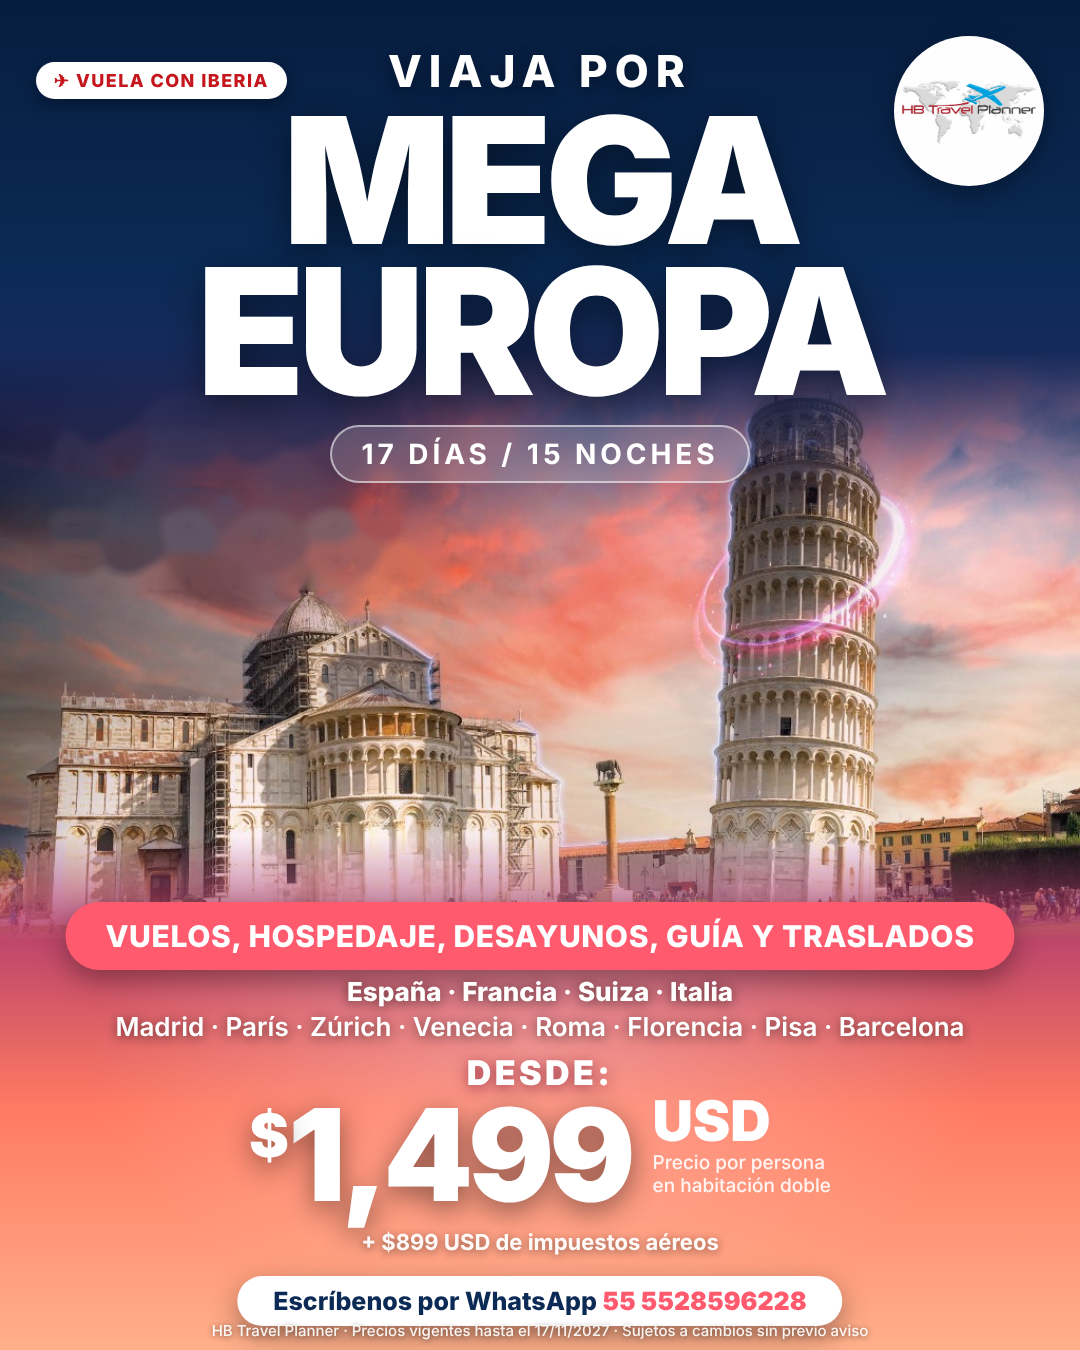
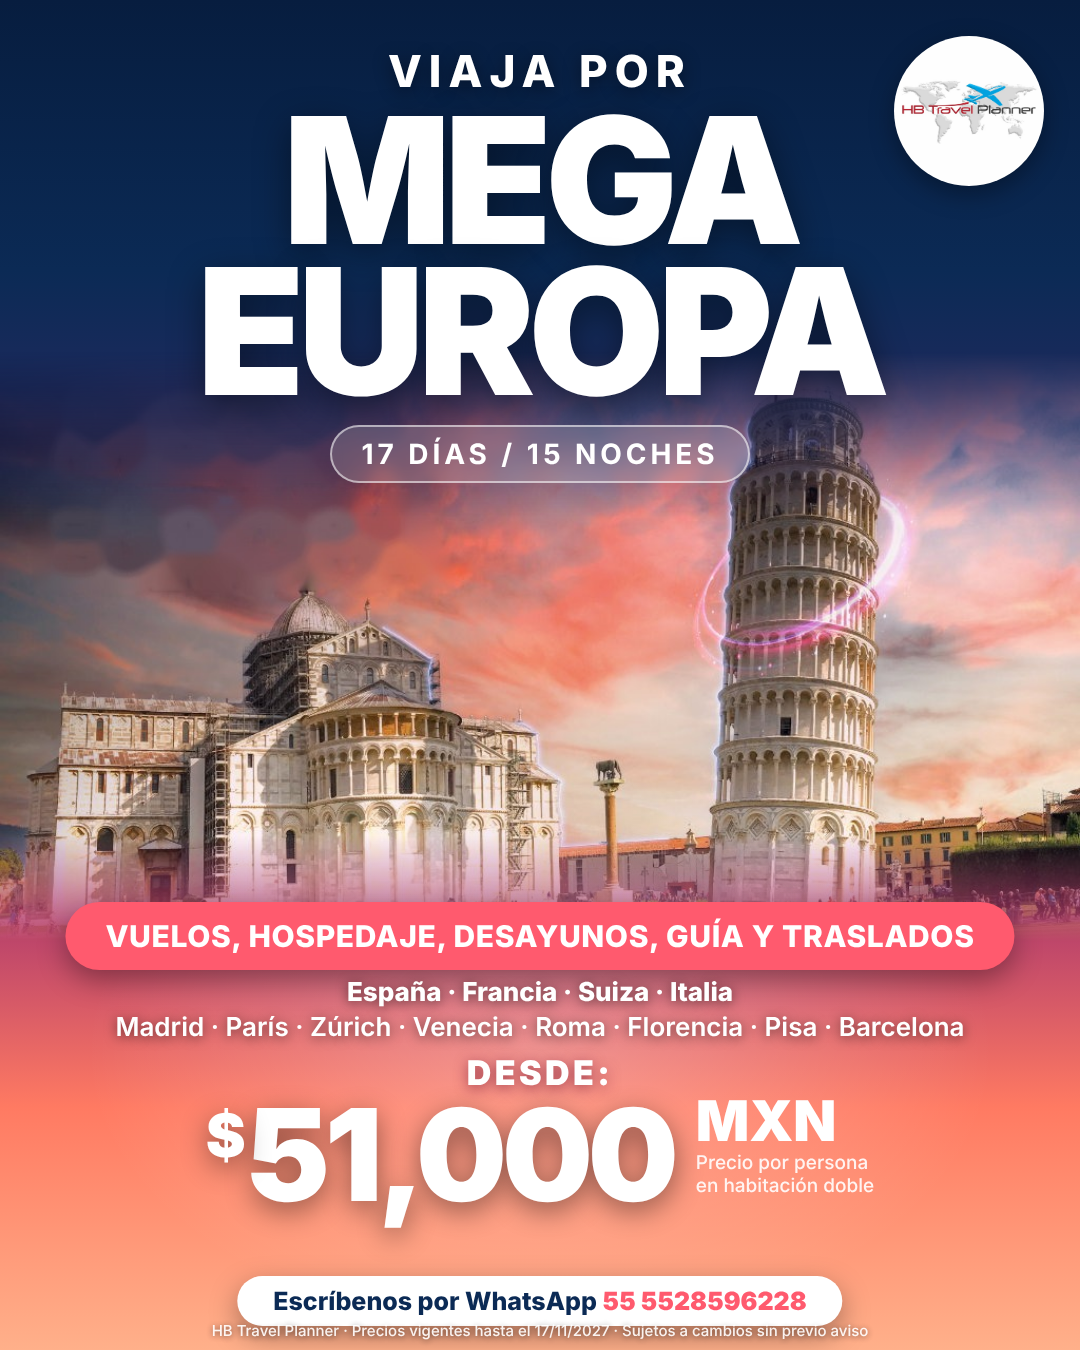
Mega Europa flyer: remove Iberia badge, price in MXN
Claude-Session: https://claude.ai/code/session_01KE8y3zqjDfDU485wDV3TSB

Changed region(s): [[0.1833, 0.8089, 0.7944, 0.9333], [0.0306, 0.0311, 0.275, 0.0933]]

diff --git a/flyers/mega-europa.html b/flyers/mega-europa.html
@@ -54,7 +54,6 @@
 <div class="flyer">
   <div class="hero"></div>
   <div class="glow"></div>
-  <div class="iberia">✈ VUELA CON IBERIA</div>
   <div class="logo"></div>
 
   <div class="top">
@@ -69,10 +68,9 @@
   <div class="price">
     <span class="aparta">DESDE:</span>
     <div class="row">
-      <div class="amt"><small>$</small>1,499</div>
-      <div class="cur"><strong>USD</strong><span>Precio por persona<br>en habitación doble</span></div>
+      <div class="amt"><small>$</small>51,000</div>
+      <div class="cur"><strong>MXN</strong><span>Precio por persona<br>en habitación doble</span></div>
     </div>
-    <div class="tax">+ $899 USD de impuestos aéreos</div>
   </div>
 
   <div class="pill p2">Escríbenos por WhatsApp <b>55 5528596228</b></div>
